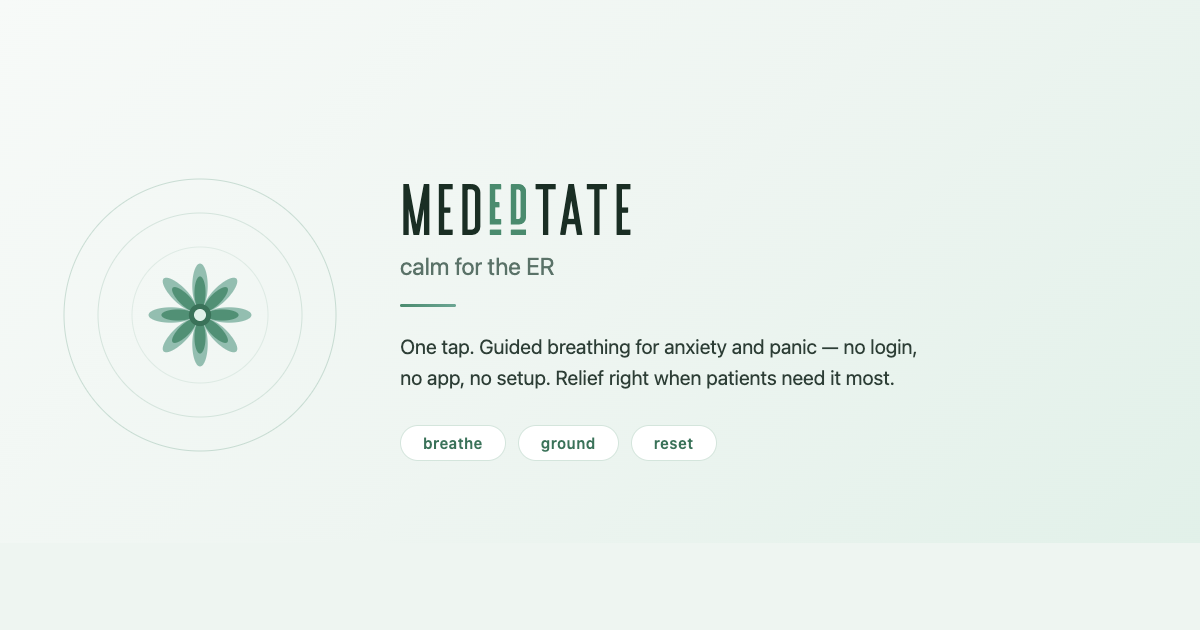
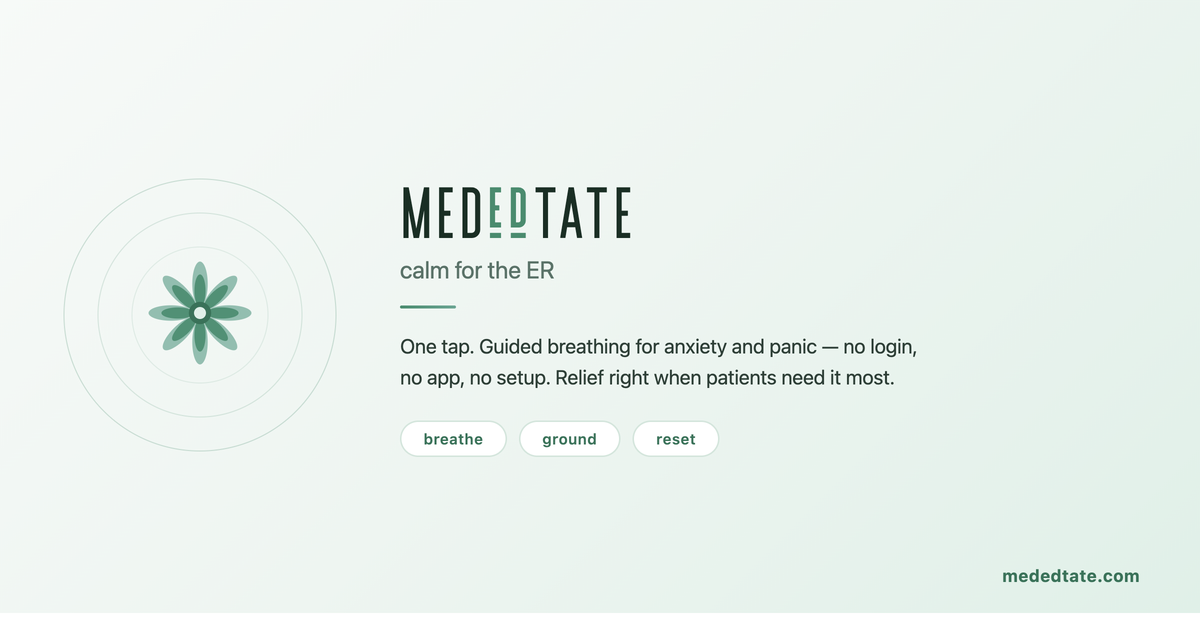
Update OG image with mint palette, Knoxville font, and visible URL
Regenerated at 2x DPR for sharpness; mededtate.com URL visible bottom-right.

diff --git a/social/og-image-gen.html b/social/og-image-gen.html
@@ -7,54 +7,35 @@
       font-family: 'Knoxville';
       src: url('../fonts/Knoxville-Regular.otf') format('opentype'),
            url('../fonts/Knoxville-Regular.ttf') format('truetype');
-      font-weight: normal;
     }
     * { margin: 0; padding: 0; box-sizing: border-box; }
-    html { background: #eef5f1; }
     html, body { width: 1200px; height: 630px; overflow: hidden; }
-    body {
+
+    table {
+      width: 1200px;
+      height: 630px;
+      border-collapse: collapse;
       background: linear-gradient(135deg, #f7faf8 0%, #eef5f1 50%, #e0f0e8 100%);
-      display: flex;
-      align-items: center;
-      font-family: 'Nunito', 'Segoe UI', system-ui, sans-serif;
-      position: relative;
     }
-
-    /* Subtle decorative circles (matches hero animation on site) */
-    .decoration {
-      position: absolute;
-      left: 60px;
-      top: 50%;
-      transform: translateY(-50%);
-      width: 360px;
-      height: 360px;
-    }
-    .decoration circle { fill: none; stroke: #4a8b6e; }
-
-    /* Left side: lotus mark inside circles */
-    .lotus-wrap {
-      position: relative;
+    .main-row { height: 574px; }
+    .lotus-cell {
       width: 400px;
-      flex-shrink: 0;
-      display: flex;
-      align-items: center;
-      justify-content: center;
-      height: 100%;
-    }
-    .lotus {
-      width: 120px;
-      height: 120px;
+      text-align: center;
+      vertical-align: middle;
       position: relative;
-      z-index: 2;
+    }
+    .content-cell {
+      vertical-align: middle;
+      padding-right: 72px;
+    }
+    .url-cell {
+      width: 200px;
+      vertical-align: bottom;
+      padding-right: 60px;
+      padding-bottom: 44px;
+      text-align: right;
     }
 
-    /* Right content */
-    .content {
-      flex: 1;
-      padding: 0 72px 0 0;
-      position: relative;
-      z-index: 1;
-    }
     .brand {
       font-family: 'Knoxville', serif;
       font-size: 72px;
@@ -66,29 +47,27 @@
     }
     .brand span { color: #4a8b6e; }
     .tagline {
+      font-family: 'Nunito', 'Segoe UI', system-ui, sans-serif;
       font-size: 24px;
       color: #5a7268;
-      font-weight: 400;
-      margin-bottom: 24px;
+      margin-bottom: 22px;
     }
     .divider {
       width: 56px;
       height: 3px;
       background: linear-gradient(90deg, #4a8b6e, #6ba593);
       border-radius: 2px;
-      margin-bottom: 24px;
+      margin-bottom: 22px;
     }
     .description {
+      font-family: 'Nunito', 'Segoe UI', system-ui, sans-serif;
       font-size: 20px;
       color: #2d3e36;
       line-height: 1.55;
       max-width: 540px;
-      margin-bottom: 32px;
+      margin-bottom: 28px;
     }
-    .pills {
-      display: flex;
-      gap: 12px;
-    }
+    .pills { display: flex; gap: 12px; font-family: 'Nunito', 'Segoe UI', system-ui, sans-serif; }
     .pill {
       padding: 8px 22px;
       border-radius: 100px;
@@ -100,64 +79,59 @@
       letter-spacing: 0.04em;
     }
     .url {
-      position: absolute;
-      bottom: 40px;
-      right: 72px;
+      font-family: 'Nunito', 'Segoe UI', system-ui, sans-serif;
       font-size: 17px;
-      color: #6ba593;
+      color: #3a7259;
       letter-spacing: 0.04em;
-      font-weight: 600;
+      font-weight: 700;
     }
   </style>
 </head>
 <body>
-
-  <div class="lotus-wrap">
-    <!-- Decorative breathing circles from the site's hero -->
-    <svg style="position:absolute;width:340px;height:340px;" viewBox="0 0 200 200" xmlns="http://www.w3.org/2000/svg">
-      <circle cx="100" cy="100" r="80" fill="none" stroke="#4a8b6e" stroke-width="0.6" opacity="0.25"/>
-      <circle cx="100" cy="100" r="60" fill="none" stroke="#4a8b6e" stroke-width="0.6" opacity="0.18"/>
-      <circle cx="100" cy="100" r="40" fill="none" stroke="#4a8b6e" stroke-width="0.6" opacity="0.12"/>
-    </svg>
-
-    <!-- Lotus -->
-    <svg class="lotus" viewBox="0 0 140 140" fill="none" xmlns="http://www.w3.org/2000/svg">
-      <!-- Outer petals -->
-      <ellipse cx="70" cy="36" rx="9" ry="26" fill="#6ba593" opacity="0.7" transform="rotate(0 70 70)"/>
-      <ellipse cx="70" cy="36" rx="9" ry="26" fill="#6ba593" opacity="0.7" transform="rotate(45 70 70)"/>
-      <ellipse cx="70" cy="36" rx="9" ry="26" fill="#6ba593" opacity="0.7" transform="rotate(90 70 70)"/>
-      <ellipse cx="70" cy="36" rx="9" ry="26" fill="#6ba593" opacity="0.7" transform="rotate(135 70 70)"/>
-      <ellipse cx="70" cy="36" rx="9" ry="26" fill="#6ba593" opacity="0.7" transform="rotate(180 70 70)"/>
-      <ellipse cx="70" cy="36" rx="9" ry="26" fill="#6ba593" opacity="0.7" transform="rotate(225 70 70)"/>
-      <ellipse cx="70" cy="36" rx="9" ry="26" fill="#6ba593" opacity="0.7" transform="rotate(270 70 70)"/>
-      <ellipse cx="70" cy="36" rx="9" ry="26" fill="#6ba593" opacity="0.7" transform="rotate(315 70 70)"/>
-      <!-- Inner petals -->
-      <ellipse cx="70" cy="44" rx="6.5" ry="19" fill="#4a8b6e" opacity="0.9" transform="rotate(0 70 70)"/>
-      <ellipse cx="70" cy="44" rx="6.5" ry="19" fill="#4a8b6e" opacity="0.9" transform="rotate(45 70 70)"/>
-      <ellipse cx="70" cy="44" rx="6.5" ry="19" fill="#4a8b6e" opacity="0.9" transform="rotate(90 70 70)"/>
-      <ellipse cx="70" cy="44" rx="6.5" ry="19" fill="#4a8b6e" opacity="0.9" transform="rotate(135 70 70)"/>
-      <ellipse cx="70" cy="44" rx="6.5" ry="19" fill="#4a8b6e" opacity="0.9" transform="rotate(180 70 70)"/>
-      <ellipse cx="70" cy="44" rx="6.5" ry="19" fill="#4a8b6e" opacity="0.9" transform="rotate(225 70 70)"/>
-      <ellipse cx="70" cy="44" rx="6.5" ry="19" fill="#4a8b6e" opacity="0.9" transform="rotate(270 70 70)"/>
-      <ellipse cx="70" cy="44" rx="6.5" ry="19" fill="#4a8b6e" opacity="0.9" transform="rotate(315 70 70)"/>
-      <!-- Center -->
-      <circle cx="70" cy="70" r="13" fill="#3a7259"/>
-      <circle cx="70" cy="70" r="7" fill="#e0f0e8"/>
-    </svg>
-  </div>
-
-  <div class="content">
-    <div class="brand">MED<span>ed</span>TATE</div>
-    <div class="tagline">calm for the ER</div>
-    <div class="divider"></div>
-    <div class="description">One tap. Guided breathing for anxiety and panic — no login, no app, no setup. Relief right when patients need it most.</div>
-    <div class="pills">
-      <div class="pill">breathe</div>
-      <div class="pill">ground</div>
-      <div class="pill">reset</div>
-    </div>
-  </div>
-
-  <div class="url">mededtate.com</div>
+<table>
+  <tr class="main-row" style="height:630px;">
+    <td class="lotus-cell">
+      <svg style="position:absolute;width:340px;height:340px;top:50%;left:50%;transform:translate(-50%,-50%);" viewBox="0 0 200 200">
+        <circle cx="100" cy="100" r="80" fill="none" stroke="#4a8b6e" stroke-width="0.6" opacity="0.25"/>
+        <circle cx="100" cy="100" r="60" fill="none" stroke="#4a8b6e" stroke-width="0.6" opacity="0.18"/>
+        <circle cx="100" cy="100" r="40" fill="none" stroke="#4a8b6e" stroke-width="0.6" opacity="0.12"/>
+      </svg>
+      <svg style="position:relative;z-index:2;width:120px;height:120px;" viewBox="0 0 140 140" fill="none">
+        <ellipse cx="70" cy="36" rx="9" ry="26" fill="#6ba593" opacity="0.7" transform="rotate(0 70 70)"/>
+        <ellipse cx="70" cy="36" rx="9" ry="26" fill="#6ba593" opacity="0.7" transform="rotate(45 70 70)"/>
+        <ellipse cx="70" cy="36" rx="9" ry="26" fill="#6ba593" opacity="0.7" transform="rotate(90 70 70)"/>
+        <ellipse cx="70" cy="36" rx="9" ry="26" fill="#6ba593" opacity="0.7" transform="rotate(135 70 70)"/>
+        <ellipse cx="70" cy="36" rx="9" ry="26" fill="#6ba593" opacity="0.7" transform="rotate(180 70 70)"/>
+        <ellipse cx="70" cy="36" rx="9" ry="26" fill="#6ba593" opacity="0.7" transform="rotate(225 70 70)"/>
+        <ellipse cx="70" cy="36" rx="9" ry="26" fill="#6ba593" opacity="0.7" transform="rotate(270 70 70)"/>
+        <ellipse cx="70" cy="36" rx="9" ry="26" fill="#6ba593" opacity="0.7" transform="rotate(315 70 70)"/>
+        <ellipse cx="70" cy="44" rx="6.5" ry="19" fill="#4a8b6e" opacity="0.9" transform="rotate(0 70 70)"/>
+        <ellipse cx="70" cy="44" rx="6.5" ry="19" fill="#4a8b6e" opacity="0.9" transform="rotate(45 70 70)"/>
+        <ellipse cx="70" cy="44" rx="6.5" ry="19" fill="#4a8b6e" opacity="0.9" transform="rotate(90 70 70)"/>
+        <ellipse cx="70" cy="44" rx="6.5" ry="19" fill="#4a8b6e" opacity="0.9" transform="rotate(135 70 70)"/>
+        <ellipse cx="70" cy="44" rx="6.5" ry="19" fill="#4a8b6e" opacity="0.9" transform="rotate(180 70 70)"/>
+        <ellipse cx="70" cy="44" rx="6.5" ry="19" fill="#4a8b6e" opacity="0.9" transform="rotate(225 70 70)"/>
+        <ellipse cx="70" cy="44" rx="6.5" ry="19" fill="#4a8b6e" opacity="0.9" transform="rotate(270 70 70)"/>
+        <ellipse cx="70" cy="44" rx="6.5" ry="19" fill="#4a8b6e" opacity="0.9" transform="rotate(315 70 70)"/>
+        <circle cx="70" cy="70" r="13" fill="#3a7259"/>
+        <circle cx="70" cy="70" r="7" fill="#e0f0e8"/>
+      </svg>
+    </td>
+    <td class="content-cell">
+      <div class="brand">MED<span>ed</span>TATE</div>
+      <div class="tagline">calm for the ER</div>
+      <div class="divider"></div>
+      <div class="description">One tap. Guided breathing for anxiety and panic — no login, no app, no setup. Relief right when patients need it most.</div>
+      <div class="pills">
+        <div class="pill">breathe</div>
+        <div class="pill">ground</div>
+        <div class="pill">reset</div>
+      </div>
+    </td>
+    <td class="url-cell">
+      <span class="url">mededtate.com</span>
+    </td>
+  </tr>
+</table>
 </body>
 </html>
